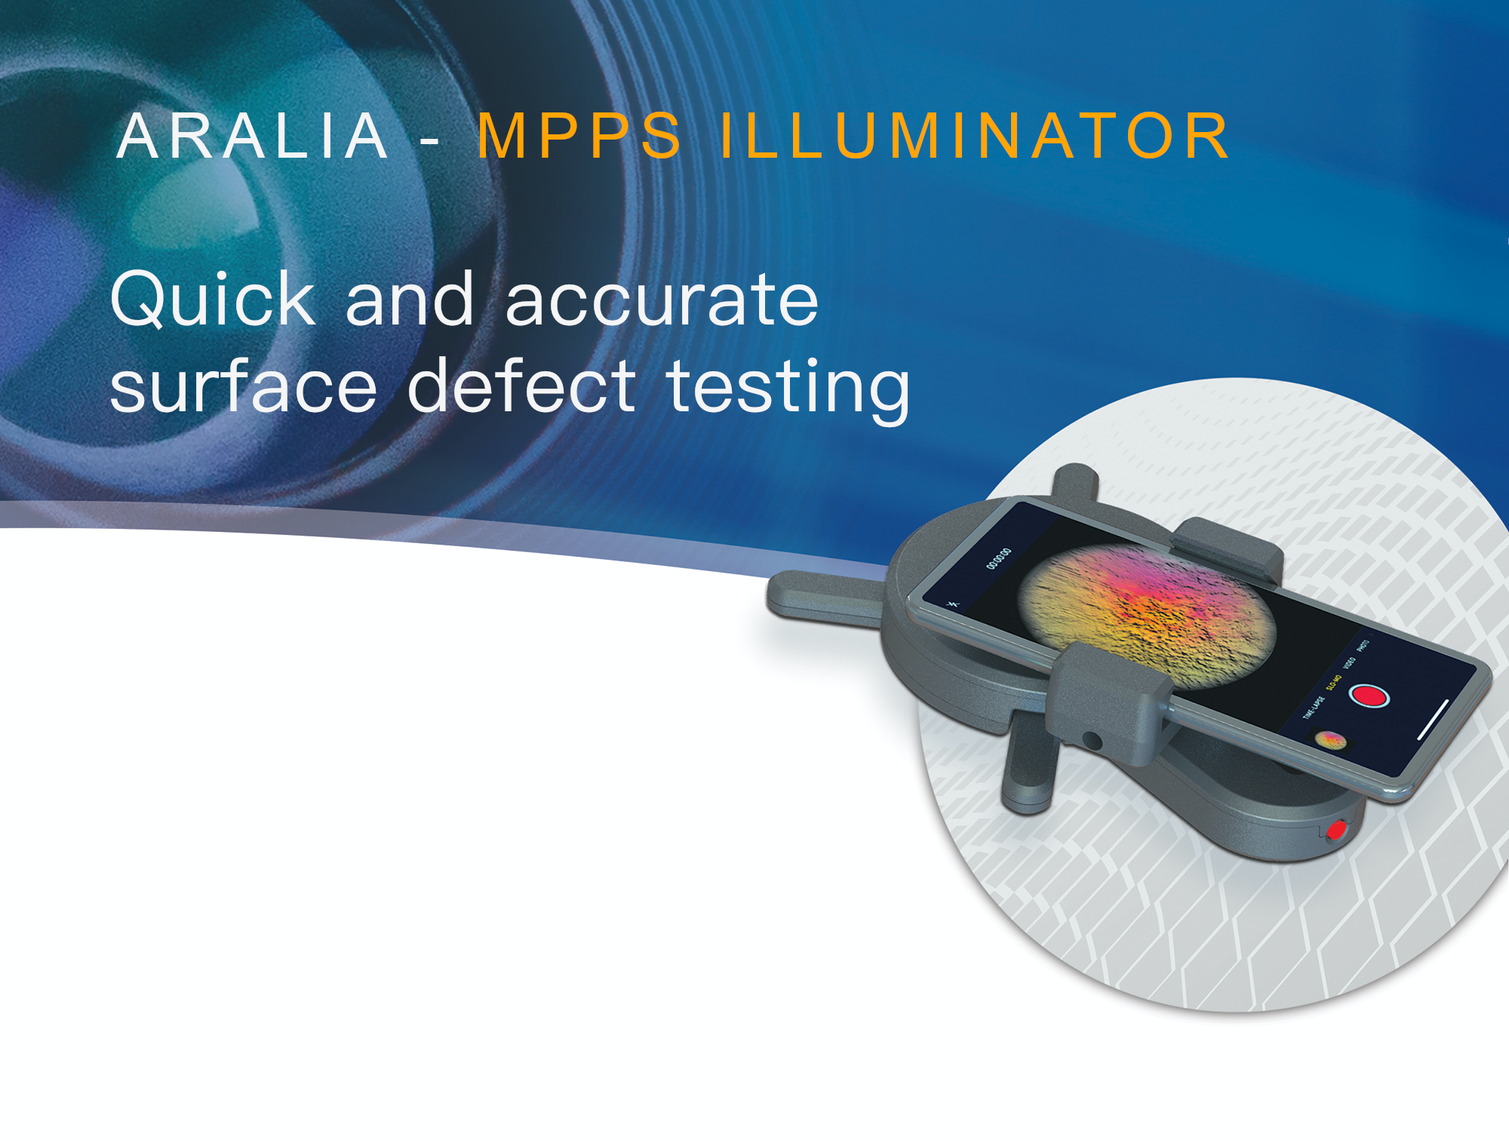
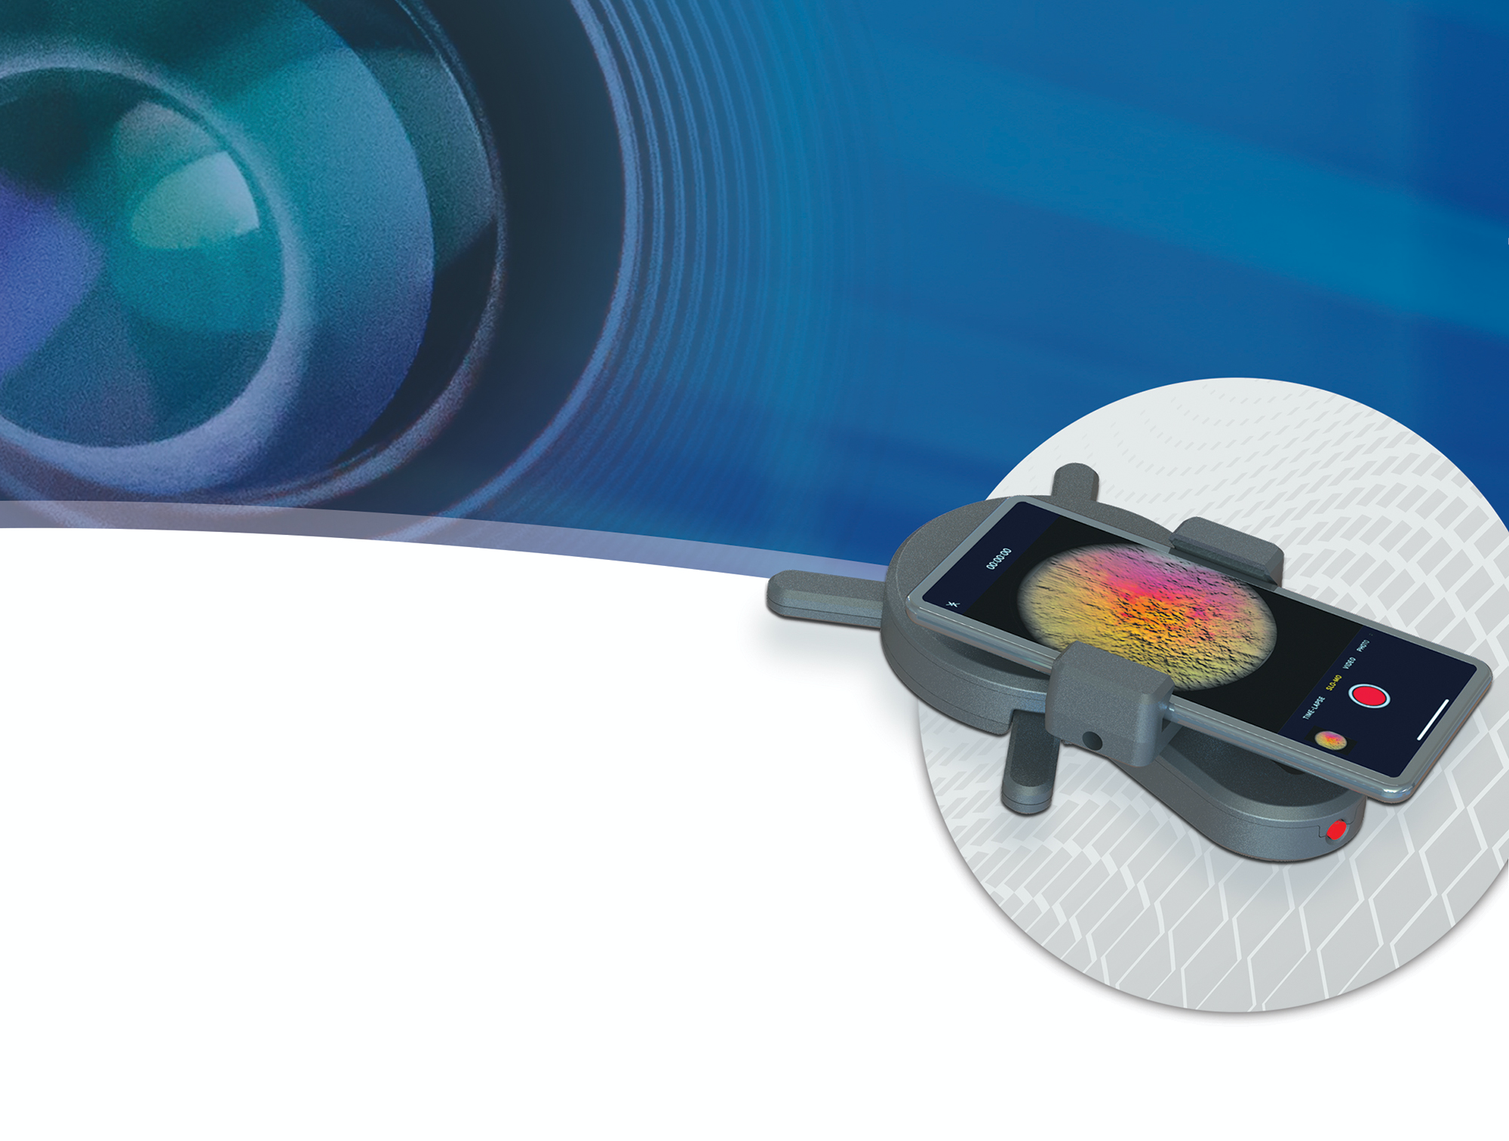
Put scannerbanner in container #2

diff --git a/surfacescanner/templates/surfacescanner/surfacescanner.html b/surfacescanner/templates/surfacescanner/surfacescanner.html
@@ -7,154 +7,155 @@
 {% endblock %}
 
 {% block content %}
-<div class="container-xl top">
-    <div class="row  ">
-        <div class="background pt-0 mt-0 col-12 px-0">
+
+
+<div class="container-xl p-0">
+    <div class="row under m-0 p-0 ">
+        <div class="col-12 m-0 p-0">
             <img src="{% static 'images/surfacescanner/scannerbanner.png' %}" alt="Banner" class="background-img img-fluid pt-0 mt-0">
-            <div class="col-7 ">
-                <div class="card ml-3 ml-sm-4 ml-md-5 pt-2 first-text">
-                    <h2 class="d-none d-md-block blue mb-4 mb-lg-5 helv title">Helping NDT and CM professionals to quickly and
-                        accurately identify surface defects as a ﬁrst step in the testing process</h2>
-
-                    <h4 class="d-block d-md-none blue mb-4 mb-lg-5 helv title">Helping NDT and CM professionals
-                        to quickly and surface defects as a ﬁrst step in the testing process</h4>
-                </div>
-            </div>
-            <div class="col-12 ">
-                <div class="card pl-3 pl-sm-4 pt-0">
-
-                </div>
-            </div>
-            <div class="col-12 col-md-8 pr-md-0">
-                <div class="card ml-3 ml-sm-4 mr-2 mr-sm-3 mr-md-0 px-lg-4 px-md-3 pr-lg-5">
-                    <h3 class="d-none d-md-block pb-3 title">Solving an industry problem</h3>
-                    <h4 class="d-block d-md-none title">Solving an industry problem</h4>
-
-                    <p class="">The UK Non-Destructive Testing (NDT) and Condition Monitoring (CM)
-                        industry has invested in various defect testing techniques such as Eddy Current, LiDAR,
-                        Ultrasonic, Dye Penetrant and Radiography to ensure the safety, quality and productivity for
-                        major industries.</p>
-                    <p>To keep large assets operational, companies rely on NDT and CM regimes to determine the need for
-                        maintenance or repairs. This extends asset lifespan, reducing the need for capital investment to
-                        replace integral equipment and prevents operational failures. Over 25,000 inspections are
-                        carried out every day in the UK.
-                    </p>
-                    <p>Aralia System Ltd&#8217;s (ASL) MPPS Illuminator is designed to be used as the ﬁrst step in the
-                        NDT and CM process. Acting as a useful aid it can quickly and easily be used
-                        on site for initial assessments to determine if additional resources or more rigorous testing is
-                        required. Working in conjunction with a smartphone our low-cost device uses photometric stereo
-                        to take detailed 3D colour images of a surface and any imperfections up to 5mm below the
-                        surface.
-                    </p>
-                    <h3 class="d-none d-md-block py-3">How does it work?</h3>
-                    <h4 class="d-block d-md-none">How does it work?</h4>
-                    <p>Our MPPS Illuminator is an extremely aﬀordable Photometric Stereo (PS) illumination device that
-                        interlocks with a smartphone enabling it to capture and process images revealing high-resolution
-                        and detailed 3D colour images of a surface and any imperfections up to 5mm below the surface.
-                    </p>
-                    <p>Our device works &#8217;out of the box&#8217; with minimal training and all necessary software is
-                        easy to download. The images can be processed locally on the phone, via the cloud and
-                        transmitted oﬀ site for a remote assessment by expert review or automated via Machine Learning
-                        which is critical during pandemics such as COVID-19. The simplicity and low price point of our
-                        innovative MPPS Illuminator enables high volumes to be readily distributed whenever necessary.
-                        Our solution also includes facilities for archiving, displaying and processing images through
-                        the application of machine learning.</p>
-                </div>
-            </div>
-            <div class="col-12 col-md-4 mt-md-5 pl-4 pl-md-2 pr-md-4 pr-lg-5 pl-lg-3 pl-xl-4 pr-xl-0 pt-lg-5">
-                <ul class="fa-ul pt-lg-5 scanner-li pl-5 pl-md-0">
-                    <li><span class="fa-li"><i class="fas fa-circle fa-xs"></i></span>Low cost</li>
-                    <li><span class="fa-li"><i class="fas fa-circle fa-xs"></i></span>Saves time, money and resources
-                    </li>
-                    <li><span class="fa-li"><i class="fas fa-circle fa-xs"></i></span>Improves accuracy of visual
-                        testing </li>
-                    <li><span class="fa-li"><i class="fas fa-circle fa-xs"></i></span>Easy to use with user friendly app
-                    </li>
-                    <li><span class="fa-li"><i class="fas fa-circle fa-xs"></i></span>Indoor and outdoor applications
-                    </li>
-                    <li><span class="fa-li"><i class="fas fa-circle fa-xs"></i></span>Helps prevent costly structural
-                        and asset failure between regular annual inspections</li>
-                    <li><span class="fa-li"><i class="fas fa-circle fa-xs"></i></span>Includes active and passive
-                        thermography options</li>
-                </ul>
-            </div>
-            <div class="col-12 col-md-8 px-2">
-                <div class="card mt-3 mt-md-4 pl-md-5">
-                    <p class="large mb-0 px-4 px-md-0 mx-md-2"><i class="fas fa-quote-left blue pr-2"></i>Our leading
-                        technology is also being further advanced to include photogrammetry, time-of-ﬂight (TOF) and
-                        thermal imaging techniques. <i class="fas fa-quote-right blue pl-1"></i></p>
-                </div>
-            </div>
-            <div class="col-12 col-md-4 text-center">
-                <img src="{% static 'images/logo.png' %}" alt="Aralia logo">
-            </div>
-            <div class="col-12 col-sm-11 col-md-9 col-lg-7 ">
-                <img src="{% static 'images/surfacescanner/subheading.png' %}" alt="Sub heading" class="info-graphic ml-md-4 pt-0 pt-md-2 pb-3">
-            </div>
-            <div class="col-12 text-center px-0 px-sm-2 pl-md-4 pr-md-2 pl-lg-5 pr-lg-3">
-                <img src="{% static 'images/surfacescanner/info-graphic-edited.png' %}" alt="Info Graphic" class="info-graphic px-md-4 px-1 mx-0 d-none d-md-block">
-                <img src="{% static 'images/surfacescanner/info-graphic-redone.png' %}" alt="Info Graphic" class="info-graphic px-md-4 px-1 mx-0 mb-sm-4 d-block d-md-none">
-                <br class="d-none d-md-block">
-            </div>
-            <div class="col-12 ">
-                <div class="card ml-md-0 px-md-5 ml-sm-4 pt-1">
-                    <h2 class="d-none d-md-block blue px-0 helv title">The business beneﬁts - affordable, effective
-                        and accurate...</h2>
-                    <h4 class="d-block d-md-none blue my-2 helv px-3 px-md-0 title pt-2">The business beneﬁts - affordable,
-                        effective and accurate...</h4>
-                    <ul class="fa-ul pt-md-3 pt-1 pr-3 pl-2 scanner-li-2">
-                        <li><span class="fa-li"><i class="fas fa-circle fa-xs"></i></span>Saves time and money:
-                            implement the MPPS Illuminator &#8217;on the spot&#8217; to identify any surface weakness
-                            requiring further inspection. This allows valuable resources to be allocated where
-                            they&#8217;re most needed.</li>
-                        <li><span class="fa-li"><i class="fas fa-circle fa-xs"></i></span>Improves accuracy of visual
-                            testing: an excellent aid for visual inspections and will improve any margin of error, e.g.
-                            cracks not visible to the human eye up to 5mm below the surface. Helps prevent costly
-                            structural or asset failure in between regular annual inspections.</li>
-                        <li><span class="fa-li"><i class="fas fa-circle fa-xs"></i></span>Improves accuracy of visual
-                            testing </li>
-                        <li><span class="fa-li"><i class="fas fa-circle fa-xs"></i></span>Indoor and outdoor
-                            applications: using a bespoke cowl the MPPS Illuminator will work outdoors as well as indoor
-                            environments. Infrared capabilities will enable images to be taken where there&#8217;s poor
-                            natural light.</li>
-                        <li><span class="fa-li"><i class="fas fa-circle fa-xs"></i></span>Easy to use: working in unison
-                            smartphones the MMPS Illuminator provides a familiar experience. Our user-friendly app
-                            provides a step by step implementation guide.</li>
-                        <li><span class="fa-li"><i class="fas fa-circle fa-xs"></i></span>Asset protection: post
-                            COVID-19 a global recession will drive the need for sustainability, and the requirement to
-                            use testing and monitoring techniques to preserve the integrity of assets and
-                            infrastructures. This will shorten supply chains and the circular economy (local test and
-                            repair)</li>
-                        <li><span class="fa-li"><i class="fas fa-circle fa-xs"></i></span>Sustainable credentials: the
-                            MPPS Illuminator is made from recyclable materials and won&#8217;t contribute to expensive
-                            landﬁlls</li>
-                        <li><span class="fa-li"><i class="fas fa-circle fa-xs"></i></span>Boosting our local economy: UK
-                            based manufacturing will generate local employment. We will also use a UK based postal or
-                            delivery service to distribute our product to end users and/or partners, e.g. distributors
-                        </li>
-                        <li><span class="fa-li"><i class="fas fa-circle fa-xs"></i></span>Connects to a DICCONDE
-                            database with AI processing.</li>
-                    </ul>
-                    <p class="large pl-4 pr-3 px-md-0 mx-md-2"><i class="fas fa-quote-left blue pr-2"></i>Our MPPS
-                        Illuminator is a useful aid for NDT and CM professionals to quickly and accurately identify
-                        surface defects as a ﬁrst step in the testing process. Unlike liquid penetrant testing, where
-                        the dye has to sit and fully absorb into the surface (taking between one and three hours), our
-                        solution works on the spot within minutes.
-                        Using a simple AI tool it can perform any initial analysis locally and send images remotely oﬀ
-                        site for expert review.<i class="fas fa-quote-right blue pl-2"></i></p>
-                </div>
-            </div>
-            <div class="col-12 text-center">
-                <br>
-                <img src="{% static 'images/surfacescanner/data-table-large.png' %}" alt="Data Table" class="info-graphic d-none d-md-block px-lg-5">
-                <img src="{% static 'images/surfacescanner/data-table-small.png' %}" alt="Data Table" class="info-graphic d-block d-md-none px-sm-2">
-            </div>
-            <div class="col-11 col-sm-10 col-md-8 offset-md-1 offset-lg-2">
-                <br>
-                <img src="{% static 'images/surfacescanner/industry-applications.png' %}" alt="Industry Applications" class="industry px-lg-5">
-            </div>
         </div>
     </div>
-    <br>
+    <div class="row top">
+        <div class="col-7 ">
+            <div class="card ml-3 ml-sm-4 ml-md-5 pt-2 first-text">
+                <h2 class="d-none d-md-block blue mb-4 mb-lg-5 helv title">Helping NDT and CM professionals to quickly and
+                    accurately identify surface defects as a ﬁrst step in the testing process</h2>
+
+                <h4 class="d-block d-md-none blue mb-4 mb-lg-5 helv title">Helping NDT and CM professionals
+                    to quickly and surface defects as a ﬁrst step in the testing process</h4>
+            </div>
+        </div>
+        <div class="col-12 col-md-8 pr-md-0">
+            <div class="card ml-3 ml-sm-4 mr-2 mr-sm-3 mr-md-0 px-lg-4 px-md-3 pr-lg-5">
+                <h3 class="d-none d-md-block pb-3 title">Solving an industry problem</h3>
+                <h4 class="d-block d-md-none title">Solving an industry problem</h4>
+
+                <p class="">The UK Non-Destructive Testing (NDT) and Condition Monitoring (CM)
+                    industry has invested in various defect testing techniques such as Eddy Current, LiDAR,
+                    Ultrasonic, Dye Penetrant and Radiography to ensure the safety, quality and productivity for
+                    major industries.</p>
+                <p>To keep large assets operational, companies rely on NDT and CM regimes to determine the need for
+                    maintenance or repairs. This extends asset lifespan, reducing the need for capital investment to
+                    replace integral equipment and prevents operational failures. Over 25,000 inspections are
+                    carried out every day in the UK.
+                </p>
+                <p>Aralia System Ltd&#8217;s (ASL) MPPS Illuminator is designed to be used as the ﬁrst step in the
+                    NDT and CM process. Acting as a useful aid it can quickly and easily be used
+                    on site for initial assessments to determine if additional resources or more rigorous testing is
+                    required. Working in conjunction with a smartphone our low-cost device uses photometric stereo
+                    to take detailed 3D colour images of a surface and any imperfections up to 5mm below the
+                    surface.
+                </p>
+                <h3 class="d-none d-md-block py-3">How does it work?</h3>
+                <h4 class="d-block d-md-none">How does it work?</h4>
+                <p>Our MPPS Illuminator is an extremely aﬀordable Photometric Stereo (PS) illumination device that
+                    interlocks with a smartphone enabling it to capture and process images revealing high-resolution
+                    and detailed 3D colour images of a surface and any imperfections up to 5mm below the surface.
+                </p>
+                <p>Our device works &#8217;out of the box&#8217; with minimal training and all necessary software is
+                    easy to download. The images can be processed locally on the phone, via the cloud and
+                    transmitted oﬀ site for a remote assessment by expert review or automated via Machine Learning
+                    which is critical during pandemics such as COVID-19. The simplicity and low price point of our
+                    innovative MPPS Illuminator enables high volumes to be readily distributed whenever necessary.
+                    Our solution also includes facilities for archiving, displaying and processing images through
+                    the application of machine learning.</p>
+            </div>
+        </div>
+        <div class="col-12 col-md-4 mt-md-5 pl-4 pl-md-2 pr-md-4 pr-lg-5 pl-lg-3 pl-xl-4 pr-xl-0 pt-lg-5">
+            <ul class="fa-ul pt-lg-5 scanner-li pl-5 pl-md-0">
+                <li><span class="fa-li"><i class="fas fa-circle fa-xs"></i></span>Low cost</li>
+                <li><span class="fa-li"><i class="fas fa-circle fa-xs"></i></span>Saves time, money and resources
+                </li>
+                <li><span class="fa-li"><i class="fas fa-circle fa-xs"></i></span>Improves accuracy of visual
+                    testing </li>
+                <li><span class="fa-li"><i class="fas fa-circle fa-xs"></i></span>Easy to use with user friendly app
+                </li>
+                <li><span class="fa-li"><i class="fas fa-circle fa-xs"></i></span>Indoor and outdoor applications
+                </li>
+                <li><span class="fa-li"><i class="fas fa-circle fa-xs"></i></span>Helps prevent costly structural
+                    and asset failure between regular annual inspections</li>
+                <li><span class="fa-li"><i class="fas fa-circle fa-xs"></i></span>Includes active and passive
+                    thermography options</li>
+            </ul>
+        </div>
+        <div class="col-12 col-md-8 px-2">
+            <div class="card mt-3 mt-md-4 pl-md-5">
+                <p class="large mb-0 px-4 px-md-0 mx-md-2"><i class="fas fa-quote-left blue pr-2"></i>Our leading
+                    technology is also being further advanced to include photogrammetry, time-of-ﬂight (TOF) and
+                    thermal imaging techniques. <i class="fas fa-quote-right blue pl-1"></i></p>
+            </div>
+        </div>
+        <div class="col-12 col-md-4 text-center">
+            <img src="{% static 'images/logo.png' %}" alt="Aralia logo">
+        </div>
+        <div class="col-12 col-sm-11 col-md-9 col-lg-7 ">
+            <img src="{% static 'images/surfacescanner/subheading.png' %}" alt="Sub heading" class="info-graphic ml-md-4 pt-0 pt-md-2 pb-3">
+        </div>
+        <div class="col-12 text-center px-0 px-sm-2 pl-md-4 pr-md-2 pl-lg-5 pr-lg-3">
+            <img src="{% static 'images/surfacescanner/info-graphic-edited.png' %}" alt="Info Graphic" class="info-graphic px-md-4 px-1 mx-0 d-none d-md-block">
+            <img src="{% static 'images/surfacescanner/info-graphic-redone.png' %}" alt="Info Graphic" class="info-graphic px-md-4 px-1 mx-0 mb-sm-4 d-block d-md-none">
+            <br class="d-none d-md-block">
+        </div>
+        <div class="col-12 ">
+            <div class="card ml-md-0 px-md-5 ml-sm-4 pt-1">
+                <h2 class="d-none d-md-block blue px-0 helv title">The business beneﬁts - affordable, effective
+                    and accurate...</h2>
+                <h4 class="d-block d-md-none blue my-2 helv px-3 px-md-0 title pt-2">The business beneﬁts - affordable,
+                    effective and accurate...</h4>
+                <ul class="fa-ul pt-md-3 pt-1 pr-3 pl-2 scanner-li-2">
+                    <li><span class="fa-li"><i class="fas fa-circle fa-xs"></i></span>Saves time and money:
+                        implement the MPPS Illuminator &#8217;on the spot&#8217; to identify any surface weakness
+                        requiring further inspection. This allows valuable resources to be allocated where
+                        they&#8217;re most needed.</li>
+                    <li><span class="fa-li"><i class="fas fa-circle fa-xs"></i></span>Improves accuracy of visual
+                        testing: an excellent aid for visual inspections and will improve any margin of error, e.g.
+                        cracks not visible to the human eye up to 5mm below the surface. Helps prevent costly
+                        structural or asset failure in between regular annual inspections.</li>
+                    <li><span class="fa-li"><i class="fas fa-circle fa-xs"></i></span>Improves accuracy of visual
+                        testing </li>
+                    <li><span class="fa-li"><i class="fas fa-circle fa-xs"></i></span>Indoor and outdoor
+                        applications: using a bespoke cowl the MPPS Illuminator will work outdoors as well as indoor
+                        environments. Infrared capabilities will enable images to be taken where there&#8217;s poor
+                        natural light.</li>
+                    <li><span class="fa-li"><i class="fas fa-circle fa-xs"></i></span>Easy to use: working in unison
+                        smartphones the MMPS Illuminator provides a familiar experience. Our user-friendly app
+                        provides a step by step implementation guide.</li>
+                    <li><span class="fa-li"><i class="fas fa-circle fa-xs"></i></span>Asset protection: post
+                        COVID-19 a global recession will drive the need for sustainability, and the requirement to
+                        use testing and monitoring techniques to preserve the integrity of assets and
+                        infrastructures. This will shorten supply chains and the circular economy (local test and
+                        repair)</li>
+                    <li><span class="fa-li"><i class="fas fa-circle fa-xs"></i></span>Sustainable credentials: the
+                        MPPS Illuminator is made from recyclable materials and won&#8217;t contribute to expensive
+                        landﬁlls</li>
+                    <li><span class="fa-li"><i class="fas fa-circle fa-xs"></i></span>Boosting our local economy: UK
+                        based manufacturing will generate local employment. We will also use a UK based postal or
+                        delivery service to distribute our product to end users and/or partners, e.g. distributors
+                    </li>
+                    <li><span class="fa-li"><i class="fas fa-circle fa-xs"></i></span>Connects to a DICCONDE
+                        database with AI processing.</li>
+                </ul>
+                <p class="large pl-4 pr-3 px-md-0 mx-md-2"><i class="fas fa-quote-left blue pr-2"></i>Our MPPS
+                    Illuminator is a useful aid for NDT and CM professionals to quickly and accurately identify
+                    surface defects as a ﬁrst step in the testing process. Unlike liquid penetrant testing, where
+                    the dye has to sit and fully absorb into the surface (taking between one and three hours), our
+                    solution works on the spot within minutes.
+                    Using a simple AI tool it can perform any initial analysis locally and send images remotely oﬀ
+                    site for expert review.<i class="fas fa-quote-right blue pl-2"></i></p>
+            </div>
+        </div>
+        <div class="col-12 text-center">
+            <br>
+            <img src="{% static 'images/surfacescanner/data-table-large.png' %}" alt="Data Table" class="info-graphic d-none d-md-block px-lg-5">
+            <img src="{% static 'images/surfacescanner/data-table-small.png' %}" alt="Data Table" class="info-graphic d-block d-md-none px-sm-2">
+        </div>
+        <div class="col-11 col-sm-10 col-md-8 offset-md-1 offset-lg-2">
+            <br>
+            <img src="{% static 'images/surfacescanner/industry-applications.png' %}" alt="Industry Applications" class="industry px-lg-5">
+        </div>
+    </div>
 </div>
+</div>
+<br>
+
 {% endblock %}

diff --git a/static/surfacescanner/css/surfacescanner.css b/static/surfacescanner/css/surfacescanner.css
@@ -1,12 +1,9 @@
-.background {
-    width: 100vw;
-
+.background-img {
+    position: absolute;
 }
 
-.background-img {
-    width: auto;
+.under {
     z-index: -4 !important;
-    position: absolute;
 }
 
 .top {

diff --git a/static/css/base.css b/static/css/base.css
@@ -13,6 +13,10 @@ body {
     overflow-x: hidden;
 }
 
+section {
+    width: 100vw !important;
+}
+
 
 h1 {
     margin-bottom: 0.5em;
